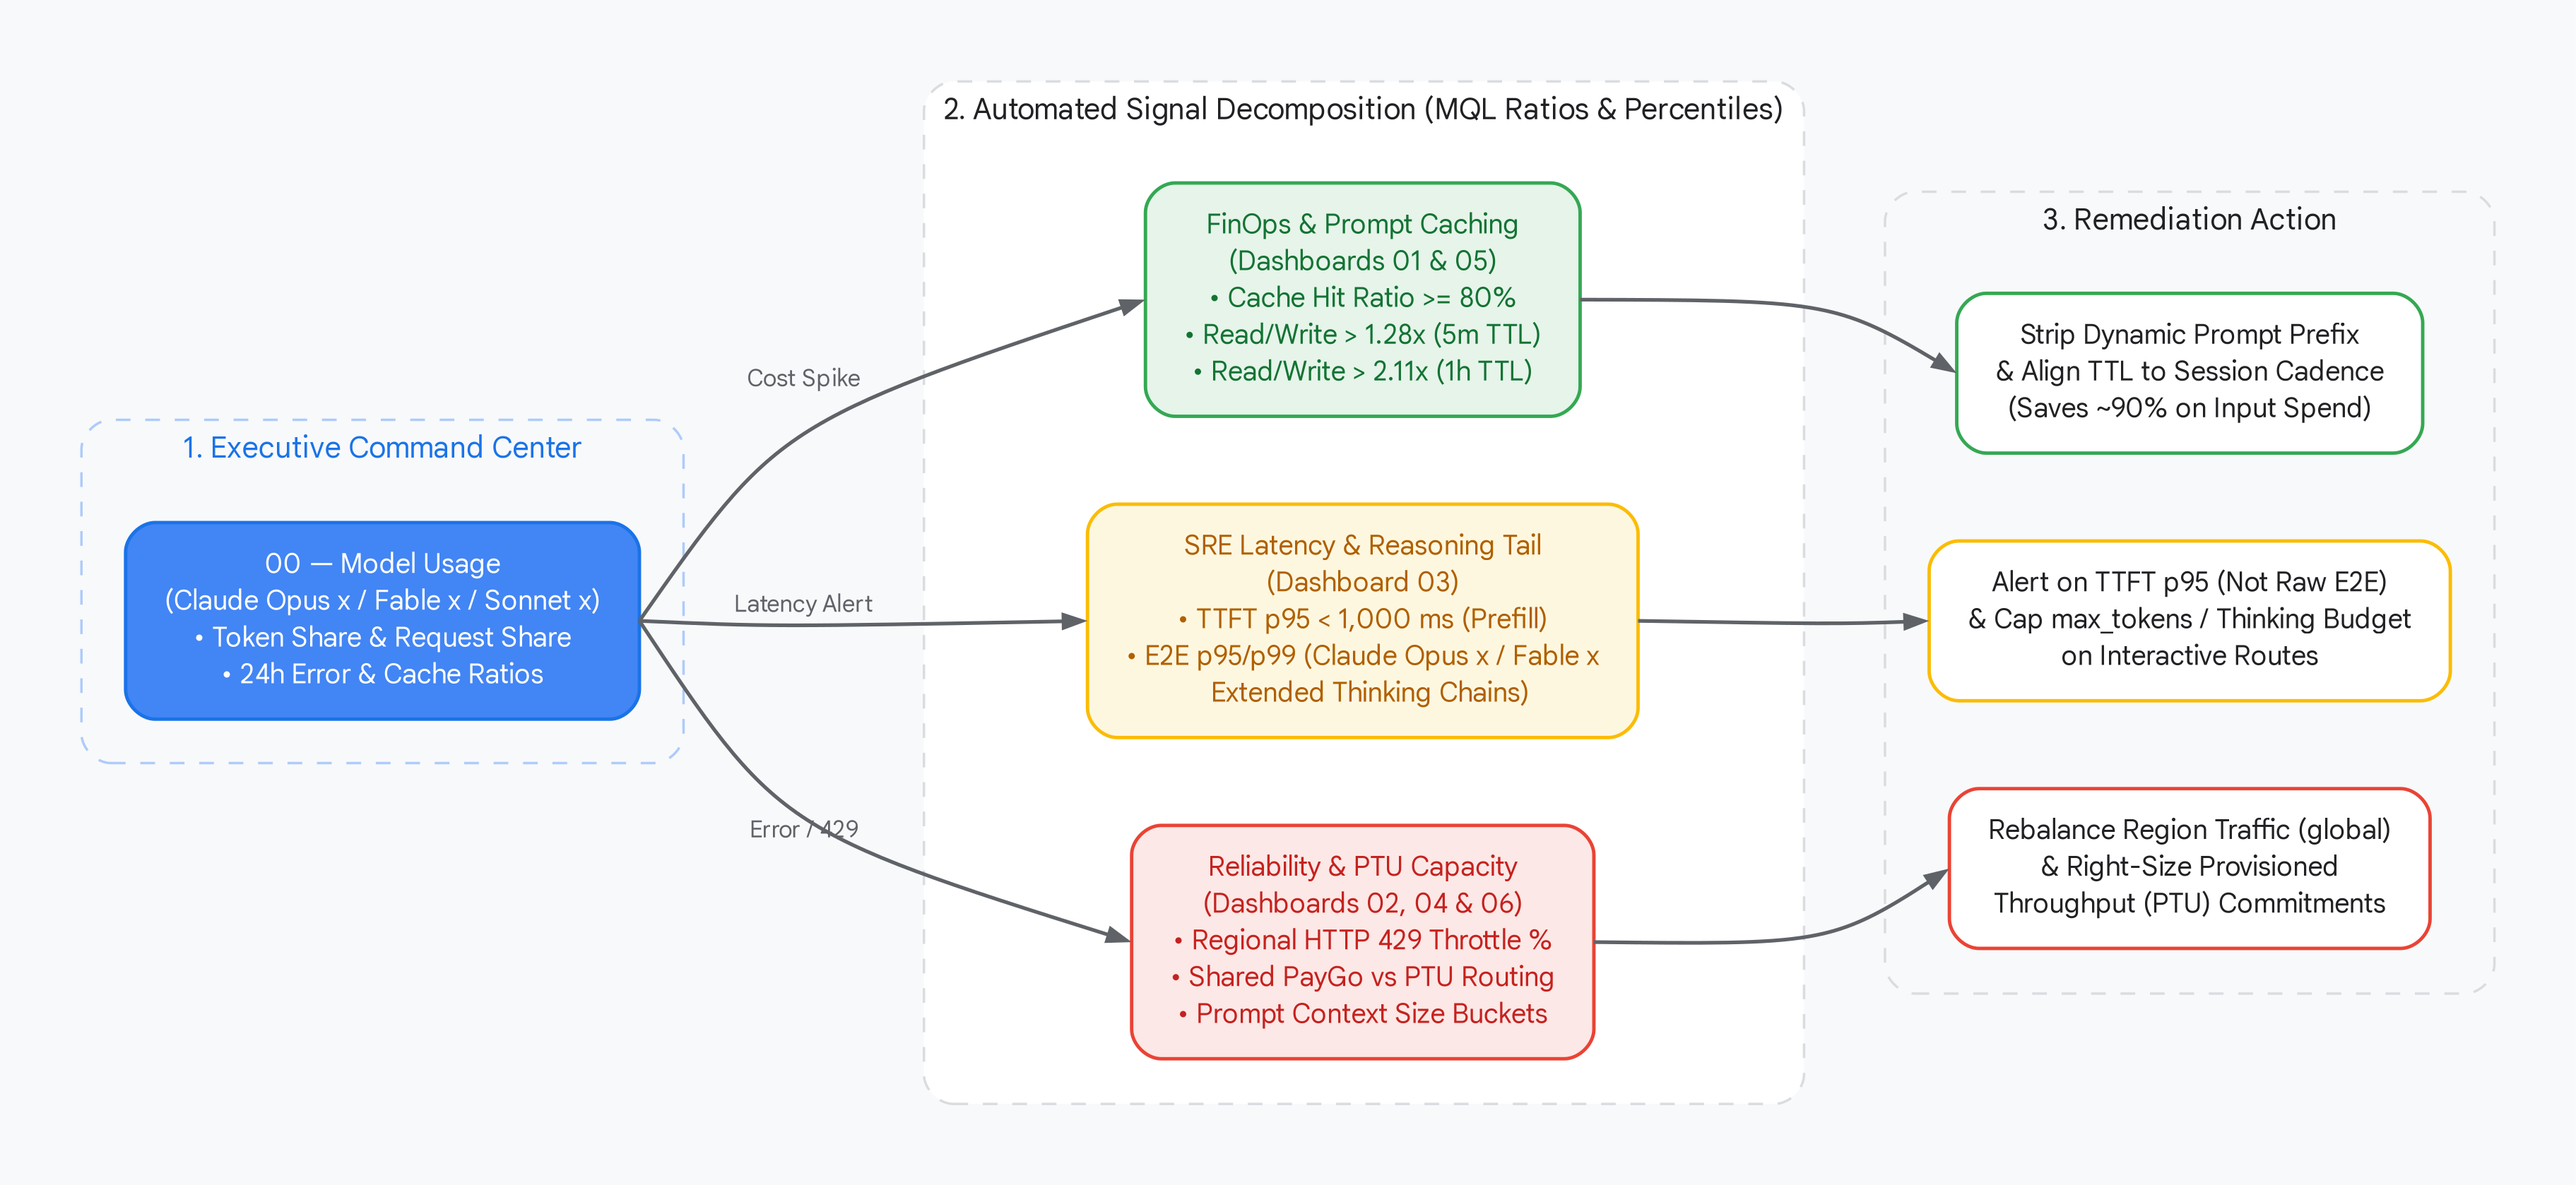
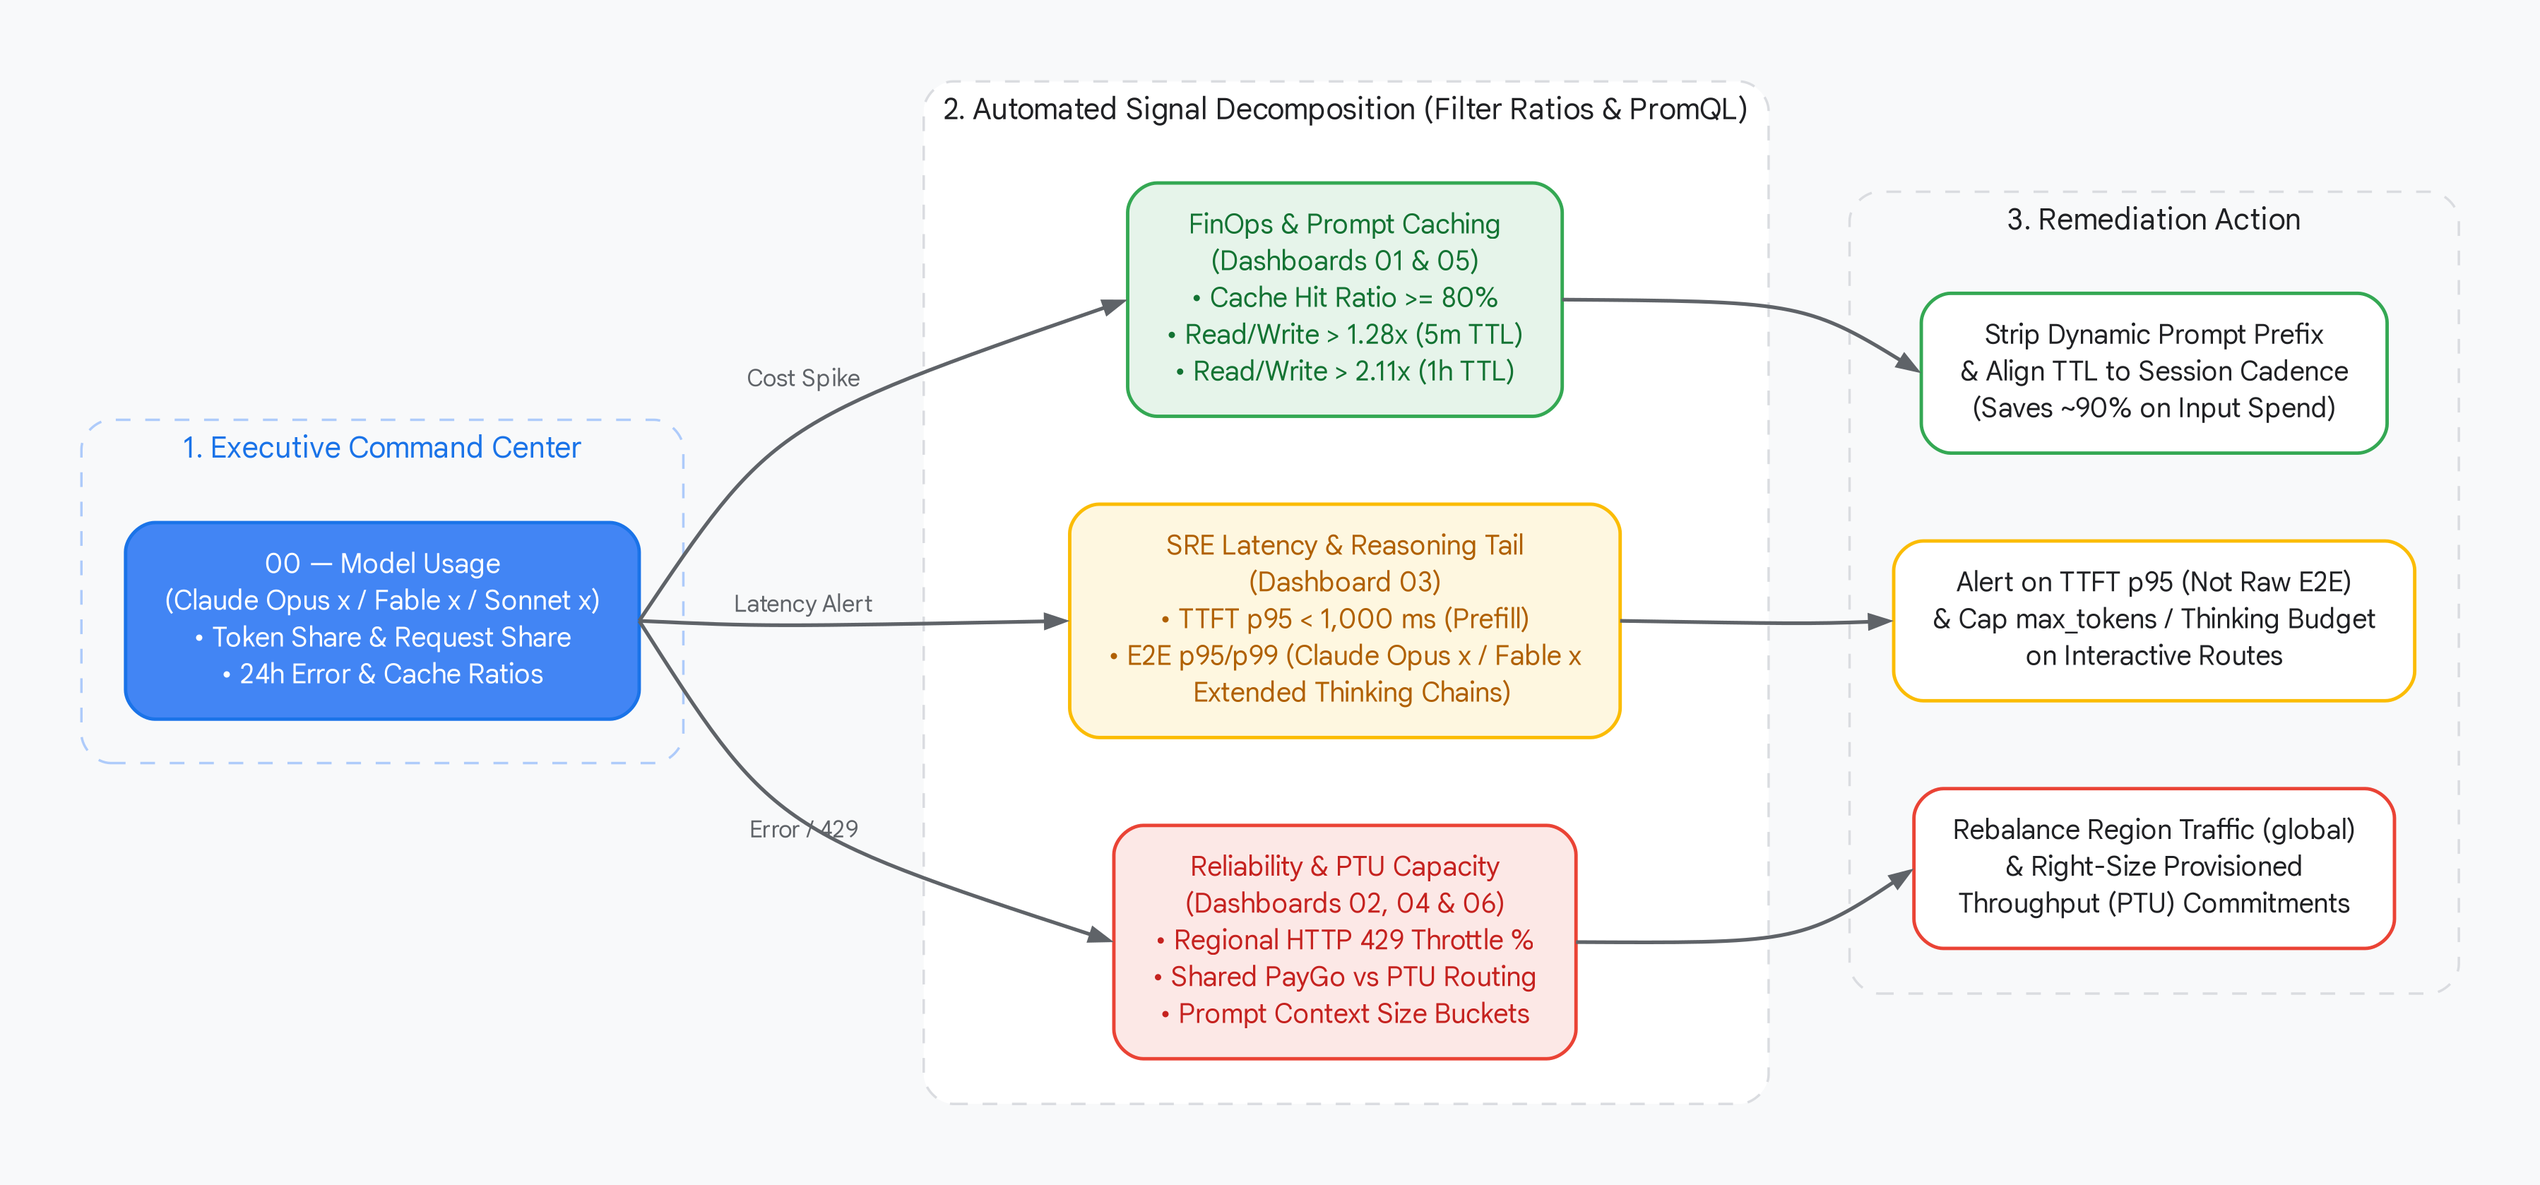
Update architecture diagrams and docs for Cloud Monitoring MQL deprecation compliance
- Update Column 3 in images/twg-telemetry-architecture.png and Cluster 2 in images/twg-finops-sre-decision-flow.png from MQL to Filter Ratio & PromQL Engine
- Document strict compliance with Google Cloud MQL deprecation guidelines (https://docs.cloud.google.com/stackdriver/docs/deprecations/mql): 0 dashboards use legacy timeSeriesQueryLanguage; all queries use native timeSeriesFilter and timeSeriesFilterRatio

TAG=agy
CONV=42a4fe84-f768-4986-9471-25a366274b86

diff --git a/docs/ARCHITECTURE_AND_PLAYBOOK.md b/docs/ARCHITECTURE_AND_PLAYBOOK.md
@@ -4,7 +4,9 @@ Detailed reference companion to [README.md](../README.md) for the Anthropic Mode
 
 ---
 
-## 1. Vertex AI PublisherModel Telemetry Schema
+## 1. Vertex AI PublisherModel Telemetry Schema & Query Engine
+
+> **MQL Deprecation Compliance ([docs](https://docs.cloud.google.com/stackdriver/docs/deprecations/mql)):** Per Google Cloud Observability guidelines (support for MQL ended July 22, 2025), **zero dashboards in this repository use `timeSeriesQueryLanguage` (MQL)**. All scorecards, ratios, percentiles, and tables use native **`timeSeriesFilter`**, **`timeSeriesFilterRatio`**, and **[PromQL](https://cloud.google.com/monitoring/promql)**-compatible aggregations.
 
 All dashboards query native [Vertex AI metrics](https://cloud.google.com/vertex-ai/docs/general/monitoring-metrics) emitted under `aiplatform.googleapis.com/PublisherModel` (`publisher="anthropic"`):
 

diff --git a/README.md b/README.md
@@ -60,7 +60,7 @@ gcloud config set project YOUR_PROJECT_ID
 
 ![FinOps and SRE Automated Triage Decision Workflow](images/twg-finops-sre-decision-flow.png)
 
-> **Deep-Dive Documentation:** See **[Architecture, Metric Schema & FinOps/SRE Playbook (`docs/ARCHITECTURE_AND_PLAYBOOK.md`)](docs/ARCHITECTURE_AND_PLAYBOOK.md)** for full MQL formulas, pricing multipliers, and version lineage (`v1.0.0` → `v3.0.0`).
+> **Deep-Dive Documentation:** See **[Architecture, Metric Schema & FinOps/SRE Playbook (`docs/ARCHITECTURE_AND_PLAYBOOK.md`)](docs/ARCHITECTURE_AND_PLAYBOOK.md)** for native `timeSeriesFilterRatio` / [PromQL](https://cloud.google.com/monitoring/promql) query specifications (100% compliant with [Cloud Monitoring MQL deprecation](https://docs.cloud.google.com/stackdriver/docs/deprecations/mql)), pricing multipliers, and version lineage (`v1.0.0` → `v3.0.0`).
 
 ---
 
